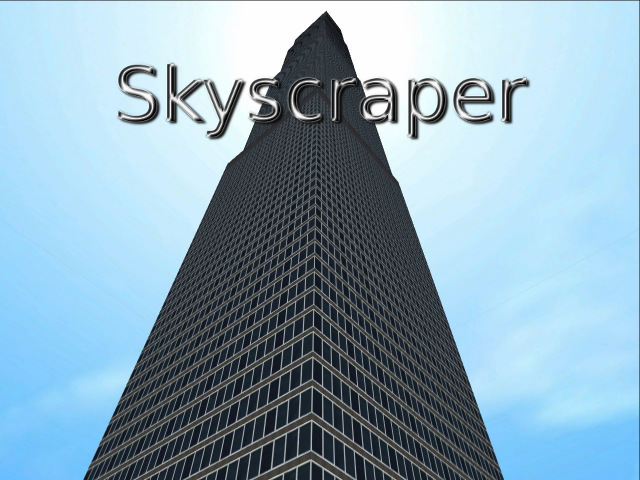
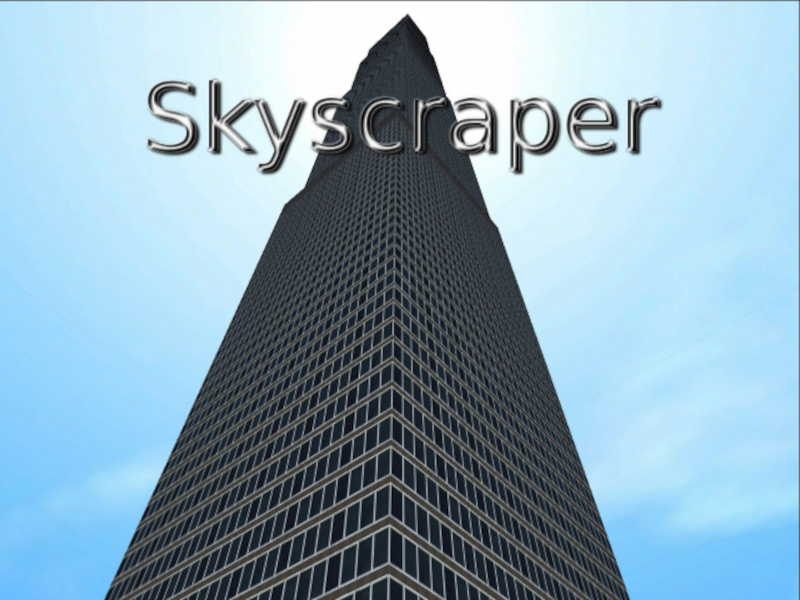
Increase main menu size to 800x600, in preparation for rework

diff --git a/src/frontend/skyscraper.cpp b/src/frontend/skyscraper.cpp
@@ -1508,7 +1508,7 @@ void Skyscraper::UnloadToMenu()
 
 	//return to main menu
 	SetFullScreen(false);
-	window->SetClientSize(GetConfigInt("Skyscraper.Frontend.Menu.Width", 640), GetConfigInt("Skyscraper.Frontend.Menu.Height", 480));
+	window->SetClientSize(GetConfigInt("Skyscraper.Frontend.Menu.Width", 800), GetConfigInt("Skyscraper.Frontend.Menu.Height", 600));
 	window->Center();
 	window->SetCursor(wxNullCursor);
 
